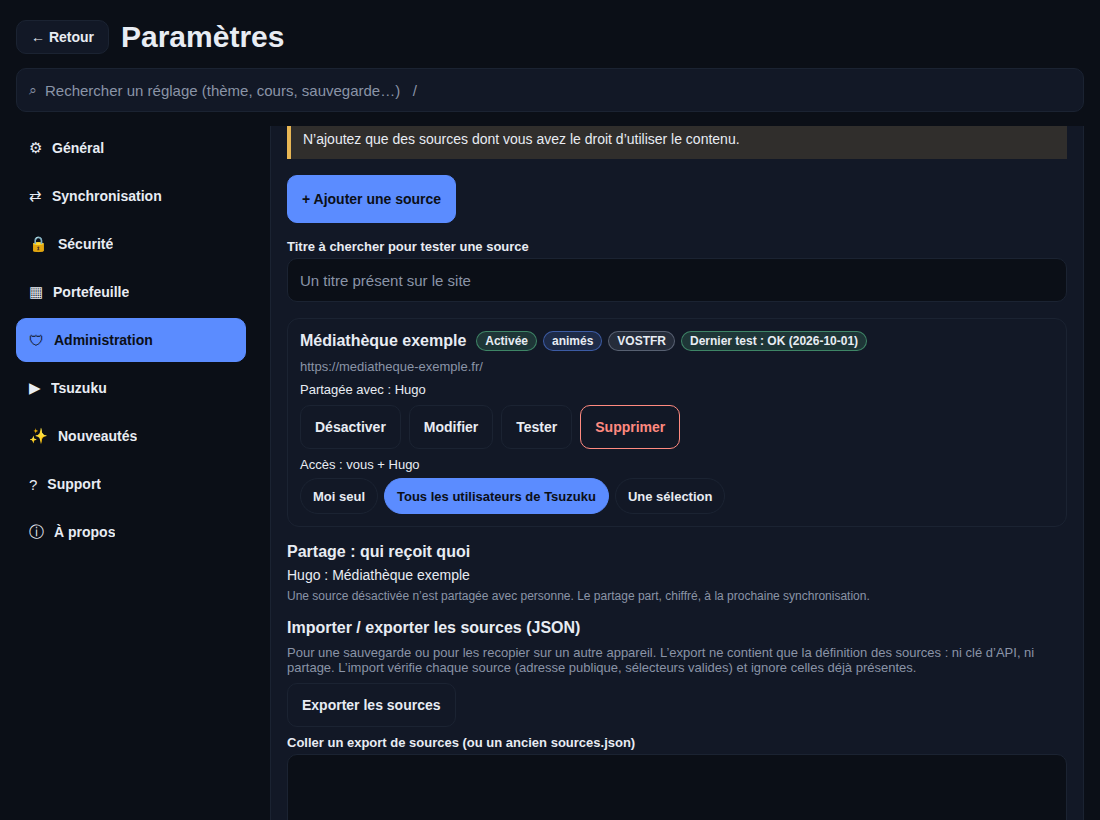
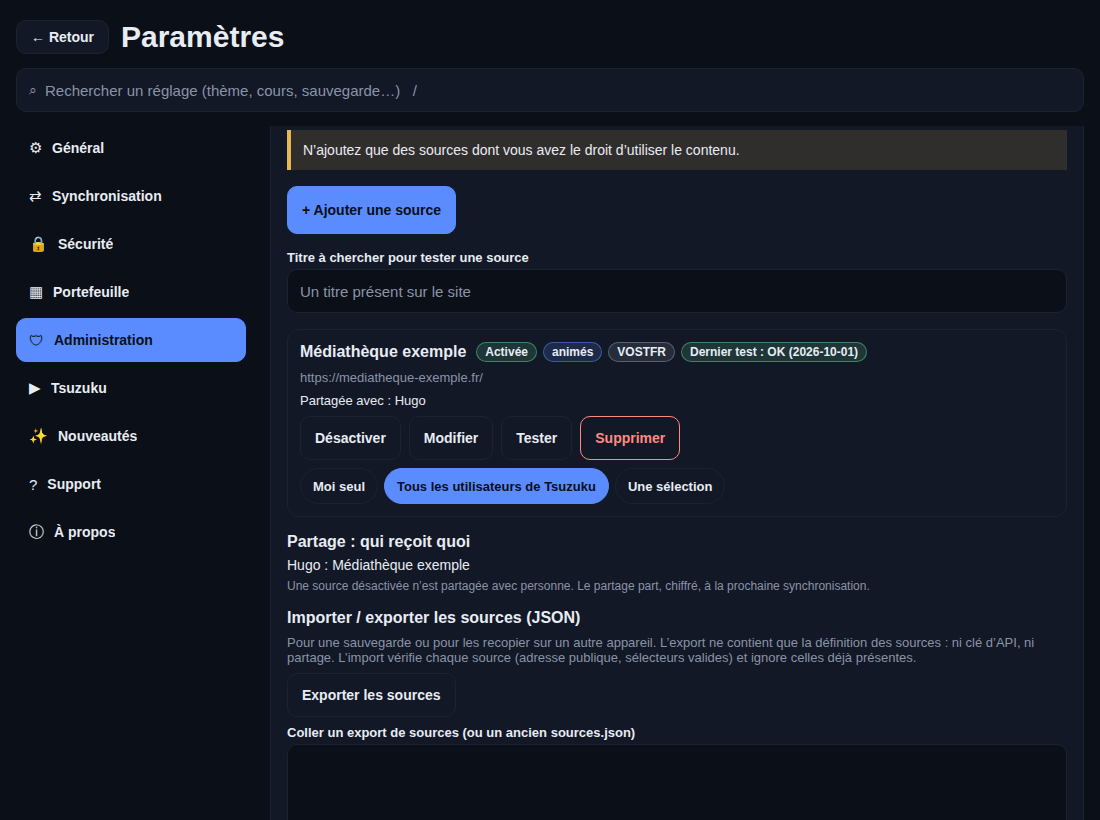
Sources : un seul résumé du partage par source ; documentation de la page Sources et de l'assistant
Claude-Session: https://claude.ai/code/session_01S483ySQsPizWULzXosJ4cc

Changed region(s): [[0.2473, 0.3963, 0.9273, 0.9146], [0.2473, 0.1524, 0.9891, 0.3659]]

diff --git a/src/tsuzuku/app/AssistantSource.tsx b/src/tsuzuku/app/AssistantSource.tsx
@@ -116,14 +116,14 @@ function IndicateurEtapes({ courante }: { courante: number }) {
 }
 
 /** Choix du partage d'une source (moi seul, tous, une sélection). */
-export function ChoixPartage({ partage, comptes, onChanger, prefixe }: { partage: PartageSource; comptes: readonly CompteTsuzuku[]; onChanger(p: PartageSource): void; prefixe: string }) {
+export function ChoixPartage({ partage, comptes, onChanger, prefixe, sansResume }: { partage: PartageSource; comptes: readonly CompteTsuzuku[]; onChanger(p: PartageSource): void; prefixe: string; /** Le résumé est déjà affiché à côté (liste des sources). */ sansResume?: boolean }) {
   const { theme } = useTsuzuku();
   const beneficiaires = partage.mode === 'tous' ? comptes : partage.mode === 'selection' ? comptes.filter(c => partage.comptes.includes(c.id)) : [];
   return (
     <View style={{ gap: 6 }} testID={prefixe} accessibilityLabel="Qui y a accès">
-      <Text style={styleTexte(theme, 13)} testID={`${prefixe}-resume`}>
+      {sansResume ? null : <Text style={styleTexte(theme, 13)} testID={`${prefixe}-resume`}>
         {partage.mode === 'personne' ? 'Accès : vous seul' : beneficiaires.length ? `Accès : vous + ${beneficiaires.map(c => c.nom).join(', ')}` : 'Accès : vous seul (aucun compte choisi)'}
-      </Text>
+      </Text>}
       <View style={{ flexDirection: 'row', flexWrap: 'wrap', gap: 6 }}>
         {(['personne', 'tous', 'selection'] as const).map(m => (
           <Puce key={m} titre={LIBELLE_PARTAGE[m]} actif={partage.mode === m} onPress={() => onChanger({ mode: m, comptes: partage.comptes })} testID={`${prefixe}-${m}`} />

diff --git a/src/tsuzuku/app/Sources.tsx b/src/tsuzuku/app/Sources.tsx
@@ -396,7 +396,7 @@ export function Sources({ comptes = [], partageActif = true, onCles, ajoutInitia
                   {s.lectureSources ? <Bouton titre={enTest === src.id ? 'Test…' : 'Tester'} desactive={enTest !== undefined} onPress={() => void tester(src)} testID={`source-tester-${src.id}`} /> : null}
                   <Bouton titre="Supprimer" variante="danger" onPress={() => void agir(() => enregistrer(supprimerSource(sources, src.id)), 'Source supprimée.')} testID={`source-supprimer-${src.id}`} />
                 </View>
-                {partageActif && partages ? <ChoixPartage partage={p} comptes={comptes} onChanger={x => void partager({ ...partages, [src.id]: x })} prefixe={`source-partage-${src.id}`} /> : null}
+                {partageActif && partages ? <ChoixPartage partage={p} comptes={comptes} onChanger={x => void partager({ ...partages, [src.id]: x })} prefixe={`source-partage-${src.id}`} sansResume /> : null}
                 {diag?.id === src.id ? (
                   <View style={{ gap: 6 }} testID="sources-diagnostic">
                     {diag.etapes.map(e => (

diff --git a/src/tsuzuku/README.md b/src/tsuzuku/README.md
@@ -146,9 +146,12 @@ Meme mot de passe, memes profils, memes permissions que le hub ; aucun serveur.
 | Chemin | Role |
 | --- | --- |
 | `registre.ts` | Entree `id: 'tsuzuku'` du registre du hub (nom, icone, teinte `anime`, information en direct) |
-| `app/Racine.tsx` | Ecran racine : « ← Hub » + Echap, selecteur Animes / Films, onglets Decouvrir · Catalogue · Ma bibliotheque ; pied de page (`PiedTsuzuku.tsx`) |
+| `app/Racine.tsx` | Ecran racine : « ← Hub » + Echap, selecteur Animes / Films, onglets Decouvrir · Catalogue · Ma bibliotheque (+ Sources avec le nombre de sources actives, rangs habilites) ; sur telephone, ces sections passent dans une barre basse (`BarreOnglets`) ; pied de page (`PiedTsuzuku.tsx`) |
 | `app/Accueil`, `Catalogue`, `FicheAnime`, `FicheFilm`, `Lecteur`, `Bibliotheque`, `Import` | Ecrans React Native (390 px, accessibilite) |
-| `app/Sources.tsx`, `AdminTsuzuku.tsx` | Rendus dans Parametres : Administration › Tsuzuku (sources, partage, assistant, cles d'API) et Tsuzuku › Sources partagees |
+| `app/Sources.tsx` | Page « Sources » (une seule implementation, deux entrees : onglet de l'app et Parametres › Administration › Tsuzuku · Sources) : liste (type, etat, dernier test, partage), « + Ajouter une source », aide « ? », qui recoit quoi, import/export JSON, lien vers les cles d'API |
+| `app/AssistantSource.tsx` | Assistant en 4 etapes : adresse → prompt pour une IA → reponse (JSON) validee / « Reparer avec l'IA » → test pas a pas et enregistrement (nom, activee, partage) |
+| `app/EtatSources.tsx` | Etats vides guides (accueil, catalogue, recherche, fiches) et « Ajouter/modifier les sources » (habilites seulement) |
+| `app/AdminTsuzuku.tsx` | Rendus dans Parametres : Administration › Tsuzuku (sources, cles d'API) et Tsuzuku › Sources partagees |
 | `app/gestion.ts` | Droits par rang, partage, sources recues, reglages techniques (donnees pures) |
 | `plateforme/partage.ts` | Publication chiffree des sources partagees dans l'espace relais de chaque beneficiaire |
 | `moteur/assistant.ts` | Assistant d'ajout : analyse de page, prompt pour une IA, validation du JSON |
@@ -190,9 +193,12 @@ catalogue compris) sont recrees par profil.
   la plus protectrice : une source decide du contenu que d'autres comptes verront, comme les
   « apps globales », que les regles de rang reservent deja aux Fondateurs. Administrateurs,
   Gestionnaires et Amis n'utilisent que les sources qui leur sont partagees.
-- Tout le technique est dans **Parametres › Administration › Tsuzuku** ; le confort (VF/VOSTFR,
-  episode suivant, deja vus) et les **sources partagees avec vous** dans Parametres › Tsuzuku.
-  L'app n'a plus d'onglet « Sources ».
+- Les sources se gerent dans l'onglet **Sources** de l'app (PC/tablette : en-tete ; telephone : barre
+  basse) ou, a l'identique, dans **Parametres › Administration › Tsuzuku · Sources**. Les cles d'API
+  restent dans Parametres › Administration › Tsuzuku · Cles d'API (lien depuis la page Sources). Le
+  confort (VF/VOSTFR, episode suivant, deja vus) et les **sources partagees avec vous** sont dans
+  Parametres › Tsuzuku. Les autres rangs n'ont ni onglet ni page : les ecrans leur disent de demander
+  a l'administrateur quand aucune source n'est disponible.
 - Cles d'API : dans la base chiffree du Fondateur (`tsuzuku.avance`), jamais publiees ni
   synchronisees en clair, jamais reaffichees en entier (`masquerCle`), jamais dans une
   publication de sources.
@@ -217,13 +223,28 @@ catalogue compris) sont recrees par profil.
 
 ### Assistant d'ajout par lien
 
-Administration › Tsuzuku › Sources › « Assistant » : l'adresse d'une page est lue par le client
-reseau protege (anti-SSRF, 2 Mo max ; sur le site, on colle le HTML), `analyserStructure` en tire
-un resume (balises/classes recurrentes, formulaires, liens d'episodes, iframes, menus), et
-`genererPrompt` compose un texte a copier vers une IA decrivant TOUT le format de source (animes et
-films) avec des regles de qualite. Le JSON renvoye est valide (`validerSourceJson` : schema du
-moteur, selecteurs CSS, `{query}`, adresse publique), teste pas a pas, puis enregistre (partage :
-personne). Rappel affiche : « N'ajoutez que des sources dont vous avez le droit d'utiliser le contenu. »
+Sources › « + Ajouter une source » › « Avec l'assistant (recommande) » (ou « Saisir ou coller le
+JSON », qui commence a l'etape 3), en 4 etapes avec indicateur :
+
+1. **Adresse** : `verifierAdresseSite` (http(s), hote public, ports usuels : anti-SSRF avant toute
+   requete) et choix animes / films / les deux.
+2. **Prompt** : la page est lue par le client reseau protege (2 Mo max) ; `analyserStructure` en tire
+   un resume et `genererPrompt` compose le texte a copier (TOUT le format `FORMAT_SOURCE`, un exemple
+   complet `EXEMPLE_SOURCE` sur un site fictif, l'extrait HTML, des regles : selecteurs robustes,
+   verifier sur 2 exemples, ne renvoyer que du JSON). Boutons « Copier le prompt », « Ouvrir ChatGPT /
+   Claude » (liens externes simples). Sur le site web (CORS) : coller le HTML, ou
+   `genererPromptSansExtrait` (l'IA analyse elle-meme le site).
+3. **Reponse** : `validerSourceJson` (schema du moteur, selecteurs CSS, `{query}`, adresse publique),
+   erreurs une par ligne avec ligne/colonne pour un JSON casse (`positionErreurJson`) ; « Reparer avec
+   l'IA » produit `genererPromptReparation` (erreurs + reponse precedente).
+4. **Test et enregistrement** : `testerSourcePasAPas` (recherche → episodes → lecteur ; films :
+   recherche → lecteur ; une etape en echec saute les suivantes), puis nom, activee, partage (moi
+   seul / tous / selection). Le resultat du test est garde (`tsuzuku.sources.tests`) et affiche dans
+   la liste.
+
+Import/export : `exporterSources` (definitions seules : ni cle d'API, ni partage, ni agent) et
+`importerExportSources` (schema + selecteurs, doublons ignores). Rappel affiche : « N'ajoutez que des
+sources dont vous avez le droit d'utiliser le contenu. »
 
 ### Reste a faire
 
